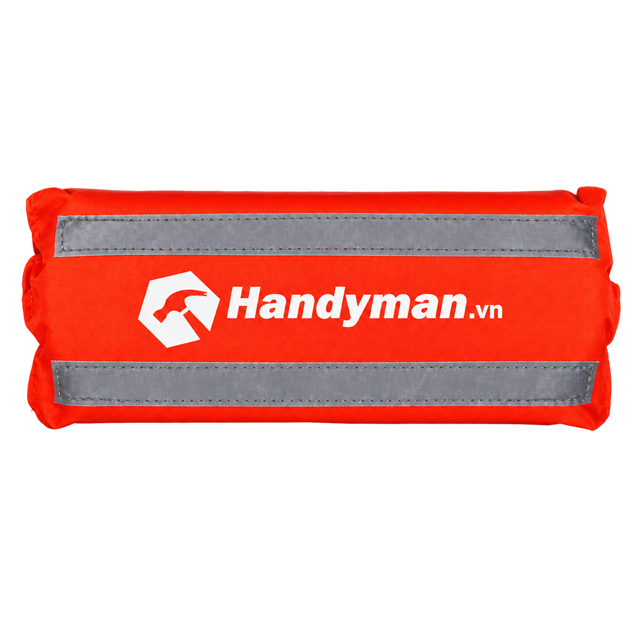
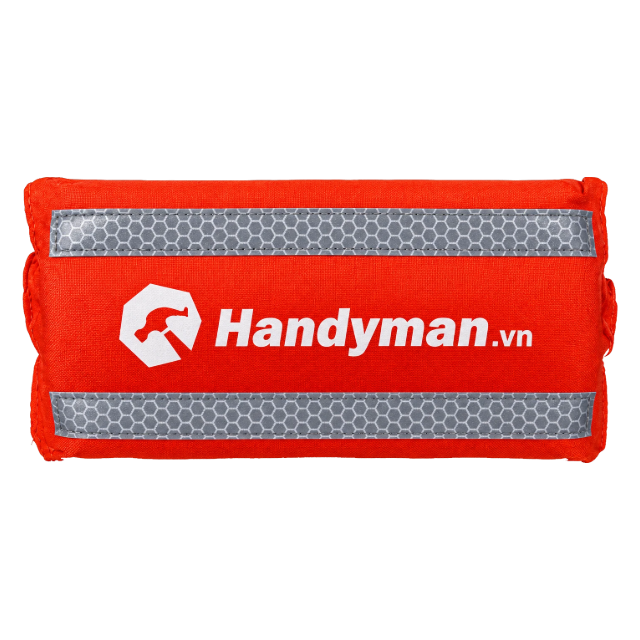
change reflective type image and thumbnail

Changed region(s): [[0.0312, 0.25, 0.9688, 0.7188]]

diff --git a/src/data/products.js b/src/data/products.js
@@ -1,7 +1,9 @@
 // HANDYPAD catalogue. Prices are copied from V70 (base price + add-on prices per size);
 // every size × add-on combination becomes one exact SKU so the cart, order summary and
 // checkout work on fixed products exactly like Hyperion.
-const itemImage = (size, finish) => `./src/assets/products/handypad/items/${size.replace('_', '-')}-${finish}.jpg`;
+// Reflective photos are WebP (replaced 2026-09-29); standard photos are still JPG.
+const itemImage = (size, finish) =>
+  `./src/assets/products/handypad/items/${size.replace('_', '-')}-${finish}.${finish === 'reflective' ? 'webp' : 'jpg'}`;
 
 export const SIZES = Object.freeze([
   { id: 'single', code: 'SGL', label_en: 'Single', label_vi: 'Single', dimensions: '24 × 10 × 5 cm', base: { VND: 550000, USD: 21.15 },

diff --git a/src/styles/feature-section.css b/src/styles/feature-section.css
@@ -1,5 +1,6 @@
 /* Why HANDYPAD — Shopify-style story: a paragraph of three sentences over a draggable photo strip.
-   Each sentence owns three photos (wide / narrow / wide); the lit sentence matches the photos in view. */
+   Each sentence owns a set of three uncropped photos; the lit sentence matches the set in view.
+   Spec: hyperion-imo-signs/docs/landing-page-template.md §1.2 (Story section). */
 .feature-section {
   position: relative; overflow: hidden; padding-block: 96px;
   background: #f8fbfe url('../assets/theme/theme-feature-sea.jpg') center bottom / cover no-repeat;
